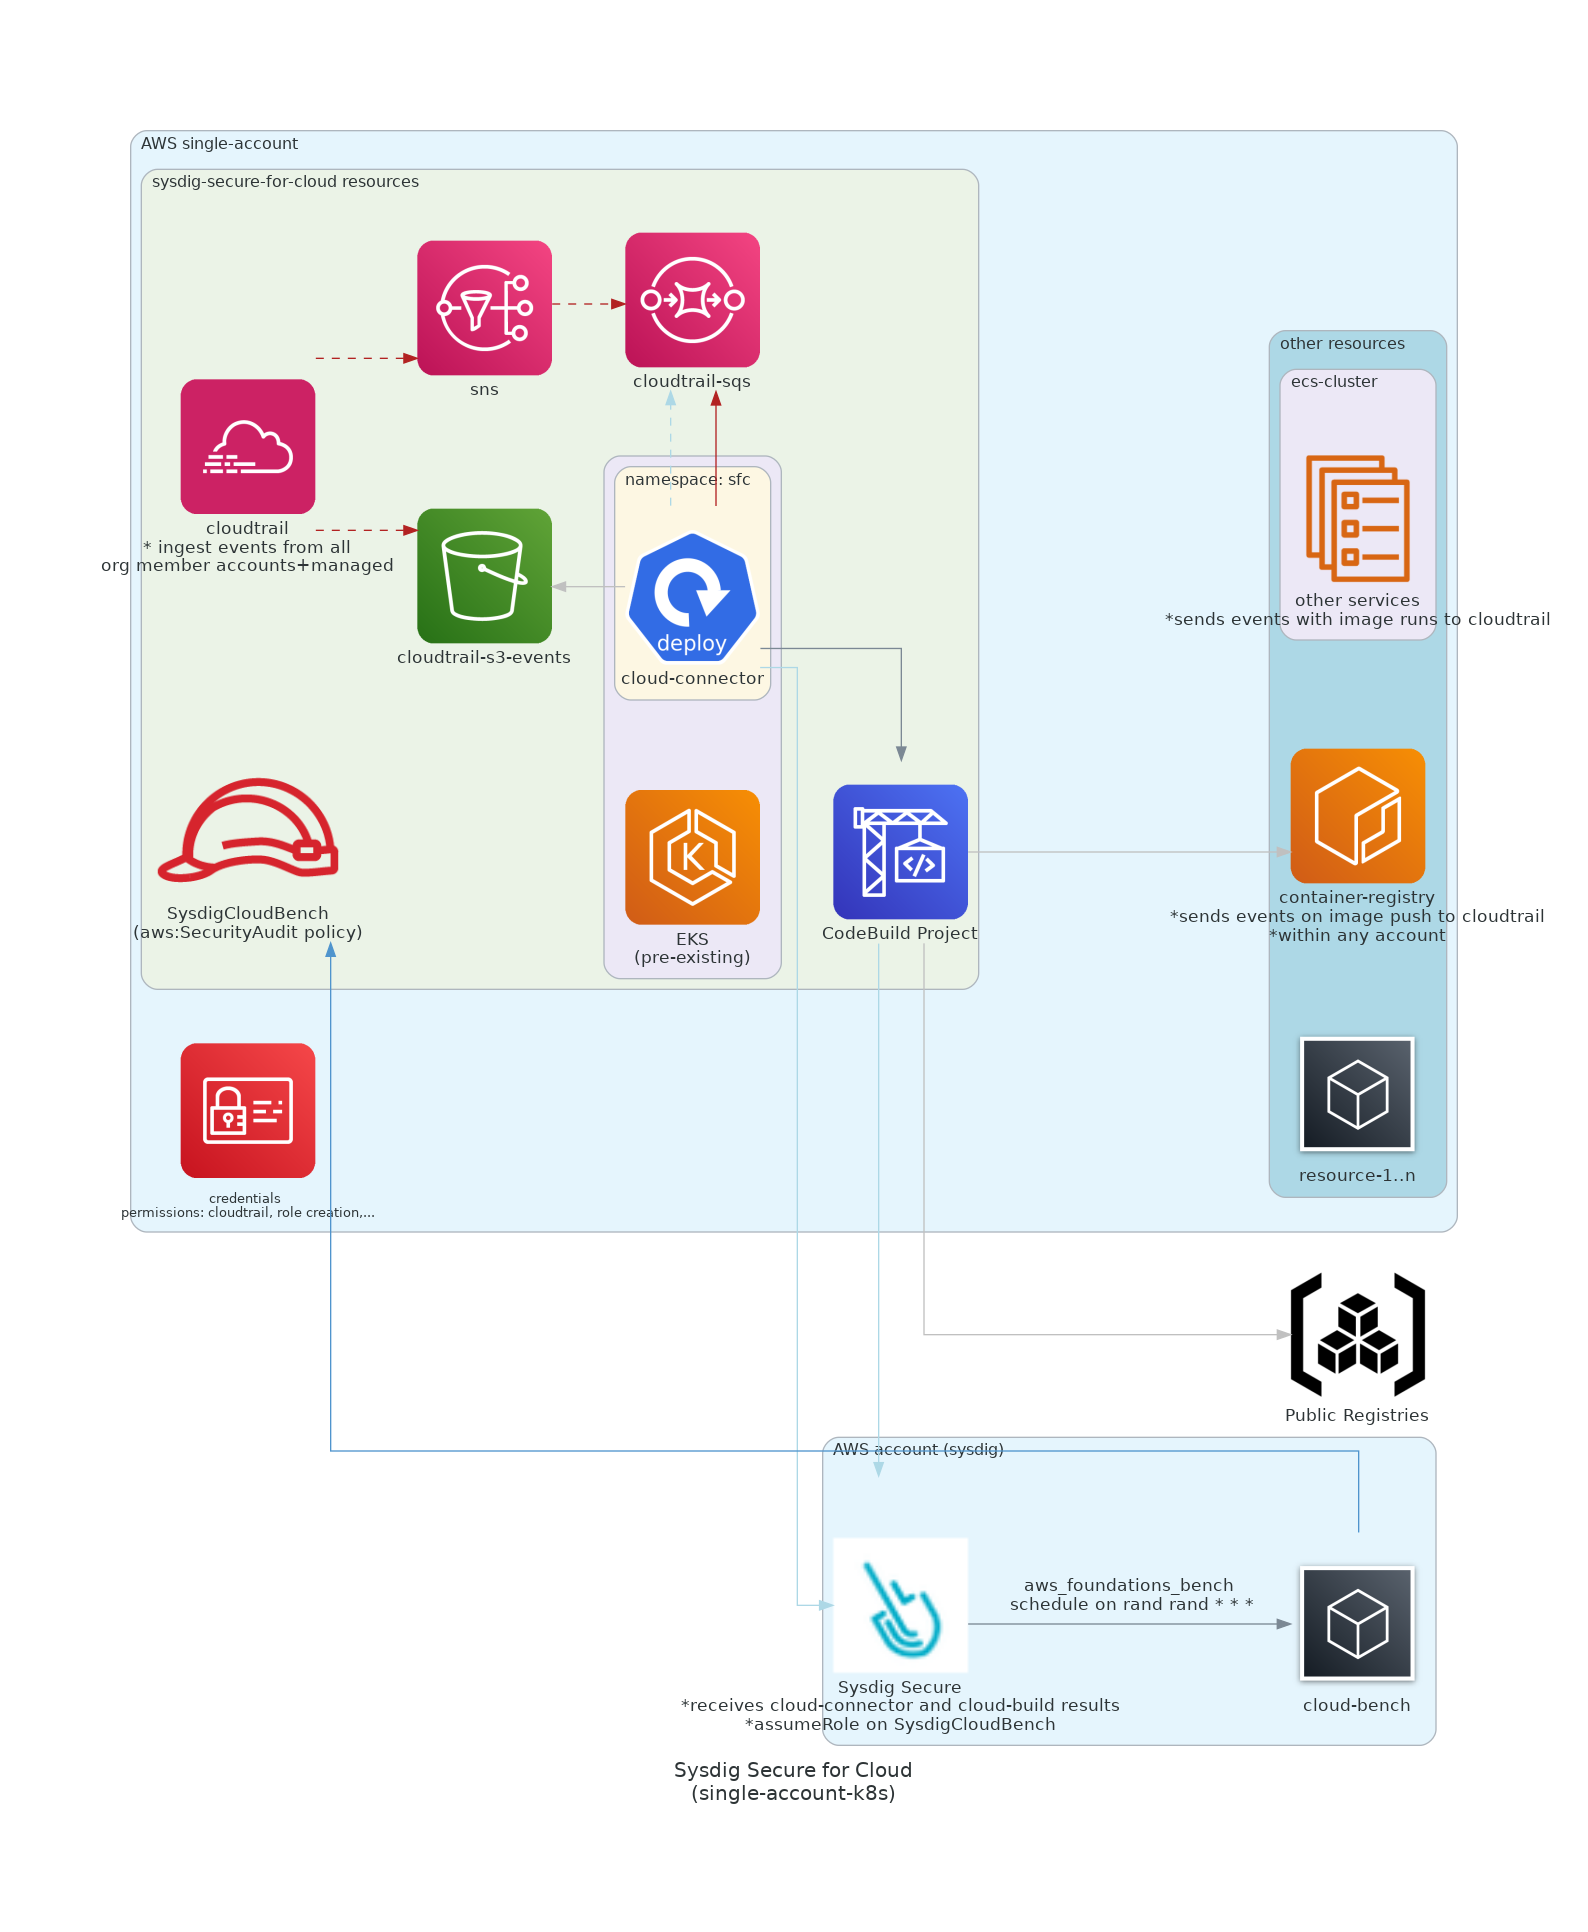
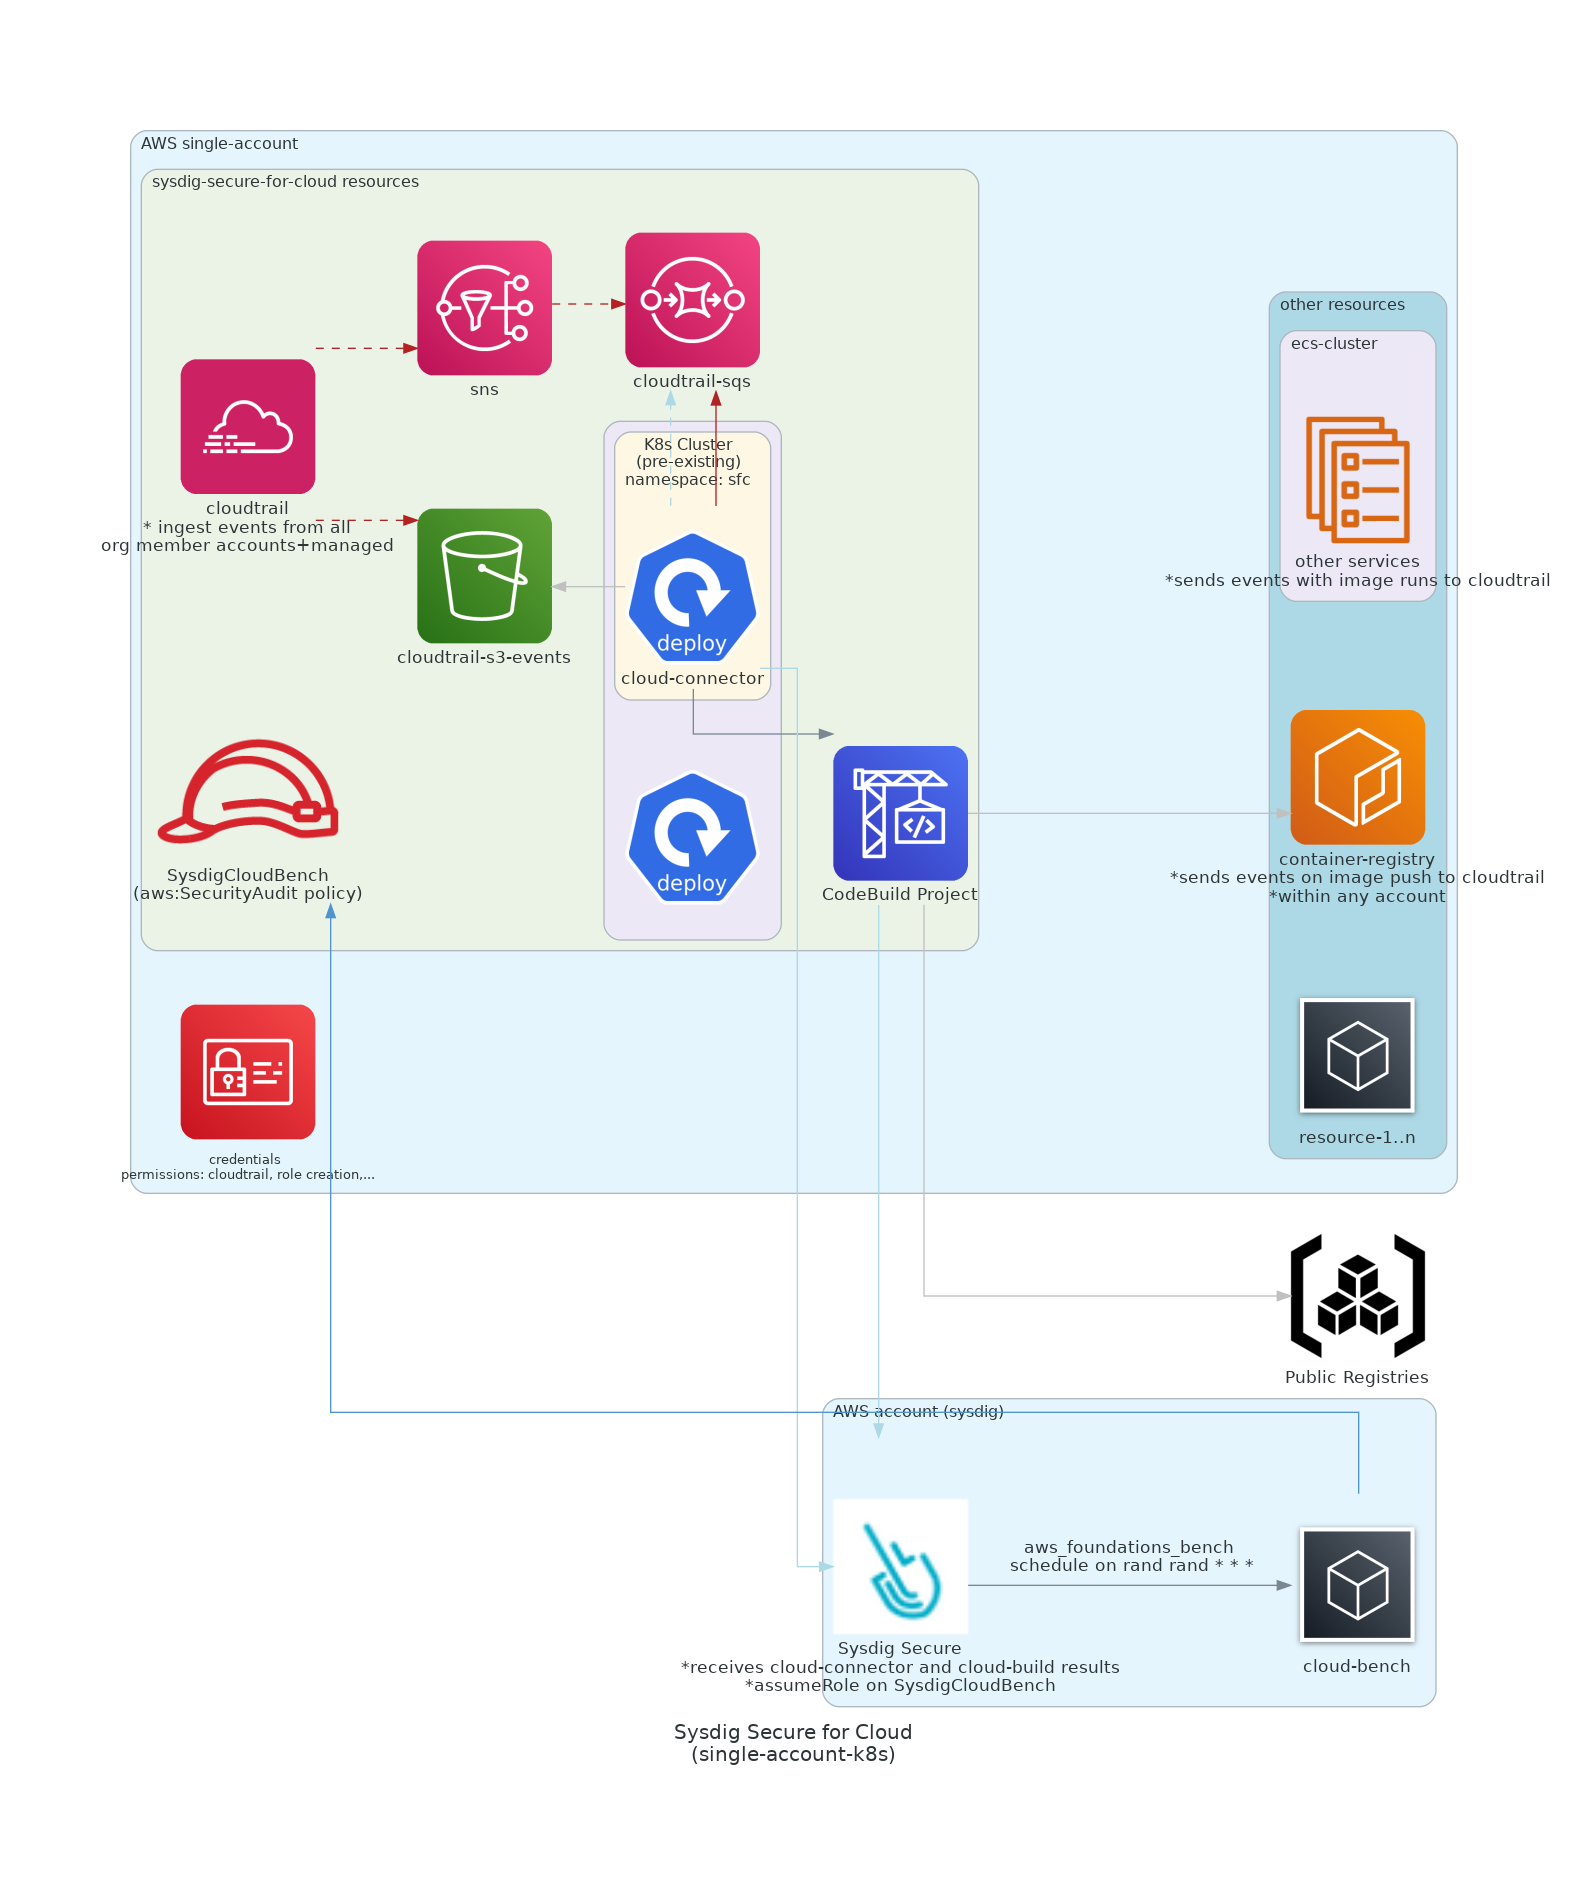
doc: fix EKS term for global K8S, as it's supported

diff --git a/examples/single-account-k8s/diagram.py b/examples/single-account-k8s/diagram.py
@@ -59,8 +59,8 @@ with Diagram("Sysdig Secure for Cloud{}(single-account-k8s)".format("\n"), graph
             cloudtrail >> Edge(color=color_event, style="dashed") >> sns
 
             with Cluster(""):
-                eks = EKS("EKS\n(pre-existing)")
-                with Cluster("namespace: sfc"):
+                eks = Deployment()
+                with Cluster("K8s Cluster\n(pre-existing)\nnamespace: sfc"):
                     cloud_connector = Deployment("cloud-connector")
 
 

diff --git a/README.md b/README.md
@@ -143,7 +143,7 @@ This would be an overall schema of the **created resources**, for the default se
 
 - Cloudtrail / SNS / S3 / SQS
 - SSM Parameter for Sysdig API Token Storage
-- Sysdig Workload: ECS / AppRunner creation (EKS is pre-required, not created)
+- Sysdig Workload: ECS / AppRunner creation (K8s cluster is pre-required, not created)
   - each compute solution require a role to assume for execution
 - CodeBuild for on-demand image scanning
 - Sysdig role for [Compliance](./modules/services/cloud-bench)
@@ -217,7 +217,7 @@ Image scanning is not activated by default. Ensure you have the [required scanni
   - For ECR image scanning, upload any image to an ECR repository of AWS. Can find CLI instructions within the UI of AWS
   - For ECS running image scanning, deploy any task in your own cluster, or the one that we create to deploy our workload (ex.`amazon/amazon-ecs-sample` image).
 
-It may take some time, but you should see logs detecting the new image in the ECS cloud-connector task 
+It may take some time, but you should see logs detecting the new image in the ECS cloud-connector task
 
 ```
 {"component":"ecs-action","message":"processing detection {\"account\":\"***\",\"region\":\"eu-west-3\",\"taskDefinition\":\"apache:1\"}. source=aws_cloudtrail"}

diff --git a/examples/single-account-k8s/README.md b/examples/single-account-k8s/README.md
@@ -4,7 +4,7 @@ Deploy Sysdig Secure for Cloud in a provided existing Kubernetes Cluster.
 
 - Sysdig **Helm** [cloud-connector chart](https://charts.sysdig.com/charts/cloud-connector/) will be used to deploy threat-detection and scanning features
   <br/>Because these charts require specific AWS credentials to be passed by parameter, a new user + access key will be created within account. See [`credentials.tf`](https://github.com/sysdiglabs/terraform-aws-secure-for-cloud/blob/master/examples/single-account-k8s/credentials.tf)
-- Used architecture is similar to [single-account](https://github.com/sysdiglabs/terraform-aws-secure-for-cloud/blob/master/examples/single-account) but changing ECS <---> with an existing EKS
+- Used architecture is similar to [single-account](https://github.com/sysdiglabs/terraform-aws-secure-for-cloud/blob/master/examples/single-account) but changing ECS <---> with an existing K8s cluster (EKS or vanilla)
 
 ### Notice
 * All the required resources and workloads will be run under the **same AWS account**. <br/><br/>

diff --git a/modules/infrastructure/permissions/org-role-eks/README.md b/modules/infrastructure/permissions/org-role-eks/README.md
@@ -1,4 +1,4 @@
-# AWS Organizational Secure for Cloud Role for EKS
+# AWS Organizational Secure for Cloud Role for K8s
 
 The aim of this module is to manage the organizational **managed account** required role and permissions for threat-detection and image scanning modules to work properly.
 
@@ -12,9 +12,6 @@ The aim of this module is to manage the organizational **managed account** requi
 * Image scanning
   * Enable this role to assumeRole to member accounts through the `organizational_role_per_account` role,
     in order to be able to fetch images that may be in member-account repositories
-
-* Other permissions
-  * ECS-Task roles (of both modules) to be able to assume this role
 
 
 <!-- BEGINNING OF PRE-COMMIT-TERRAFORM DOCS HOOK -->

diff --git a/examples-internal/organizational-k8s-threat-reuse_cloudtrail_s3/README.md b/examples-internal/organizational-k8s-threat-reuse_cloudtrail_s3/README.md
@@ -1,4 +1,4 @@
-# Sysdig Secure for Cloud in AWS<br/>:: Organizational, threat-detection with pre-existing resources (EKS + cloudtrail through S3-SNS-SQS events)
+# Sysdig Secure for Cloud in AWS<br/>:: Organizational, threat-detection with pre-existing resources (K8S + cloudtrail through S3-SNS-SQS events)
 
 
 - Sysdig **Helm** chart will be used to deploy threat-detection
